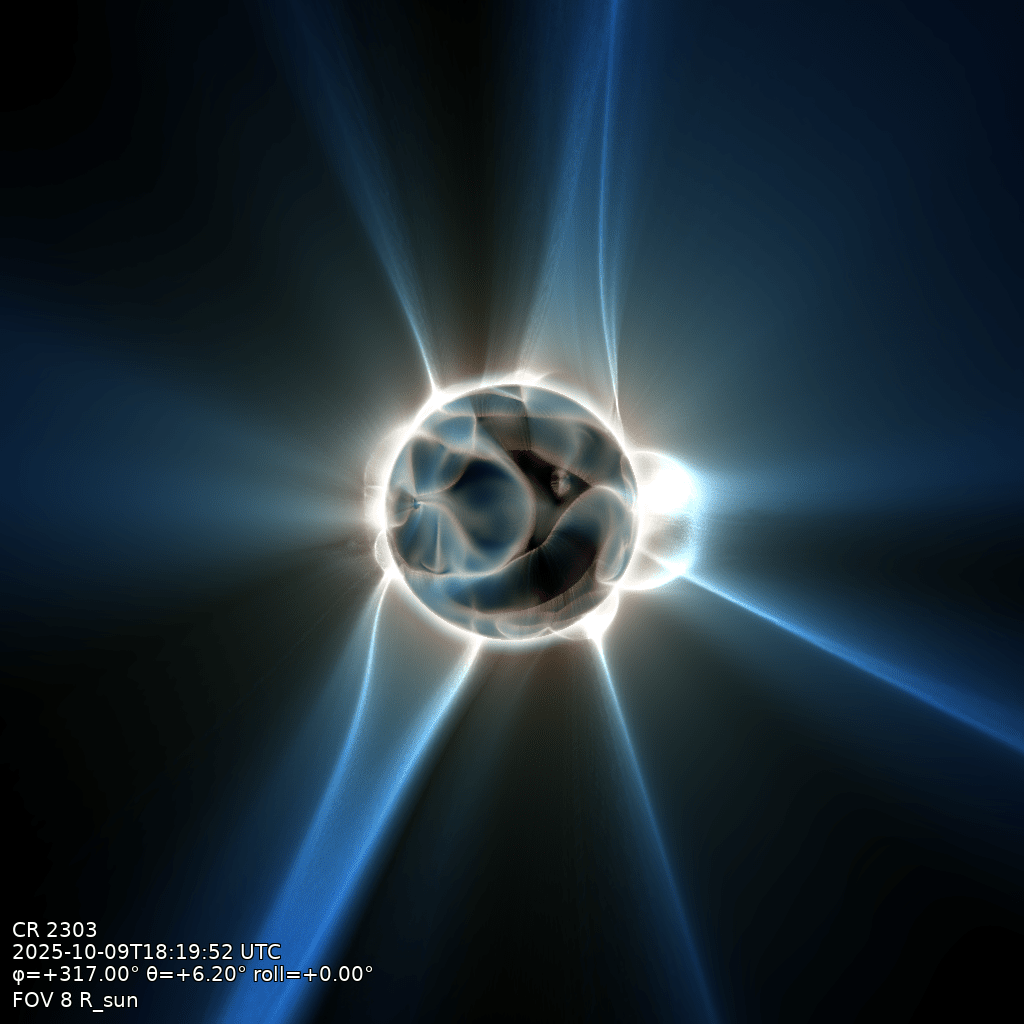
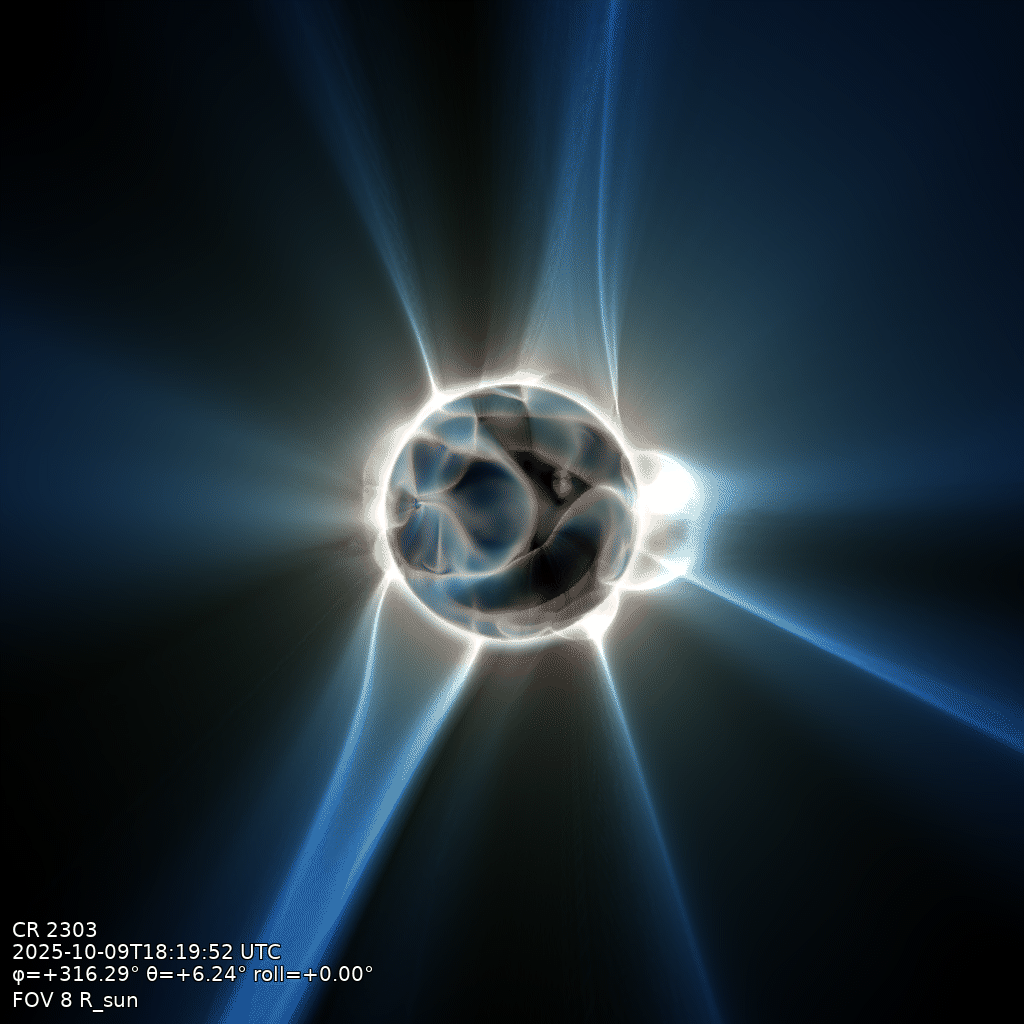
RD: docs update

diff --git a/docs/products/euv.md b/docs/products/euv.md
@@ -65,6 +65,9 @@ volume does not keep the temperature, so `euv` does not accept it.
 | Flag | Use | Default |
 |------|-----|---------|
 | `--channel` | The channel: `aia-94`, `aia-131`, `aia-171`, `aia-193`, `aia-211`, `aia-335`, `euvi-a-171`, `euvi-a-195`, `euvi-a-284` (the same for `euvi-b`) or `eui-fsi-174`. A comma list of channels of one instrument writes one image for each channel. | `aia-193` |
+| `--timestamp` | The time of the solution, in UTC. With it, the camera is at the spacecraft of the channel at that time. See [Solution time and frame](../time-and-frame.md). | none |
+| `--frame` | The frame of the input solution: `carrington` or `stonyhurst`. See [Carrington or Stonyhurst](../time-and-frame.md#carrington-or-stonyhurst). | `carrington`, with a warning |
+| `--observer` | The spacecraft that views the solution: `earth`, `stereo-a`, `stereo-b`, `solo` or `psp`. See [Use a real observer](../camera.md#use-a-real-observer). | set automatically |
 | `--tr-temperature` | The broadening temperature Tc of the run, in K, or `none`. See [Transition region](#transition-region). | from the run log, if there is one |
 | `--abundances` | The element abundances of the response tables: `coronal-2021` or `schmelz-2012`. | `coronal-2021` |
 | `--range LO,HI` | The display range of the log image, in the channel unit. `auto` uses the 0.5 and 99.9 percentiles of the image. | a fixed range for each channel |
@@ -77,11 +80,8 @@ volume does not keep the temperature, so `euv` does not accept it.
 - Camera flags: see [Camera and viewpoint](../camera.md). `euv` uses the perspective camera only.
   The default field of view is the field of the instrument, at 1024 × 1024 pixels.
   `--instrument aia`, `euvi-a`, `euvi-b` or `eui-fsi` gives the native frame of the instrument.
-- If you give `--timestamp` and no `--observer`, `--longitude`, `--latitude` or
-  `--observer-distance`, the observer is the spacecraft of the channel: `earth` for AIA,
-  `stereo-a` or `stereo-b` for EUVI, `solo` for EUI/FSI. See
-  [Use a real observer](../camera.md#use-a-real-observer) and
-  [Solution time and frame](../time-and-frame.md).
+- `euv` sets `--observer` automatically to the spacecraft of the channel: `earth` for AIA,
+  `stereo-a` or `stereo-b` for EUVI, `solo` for EUI/FSI. This needs `--timestamp`.
 - `qorona euv --help-all` lists all the flags, including the flags of the internal grid
   (`--outer-radius`, `--n-r` and others). See [Method](#method).
 

diff --git a/docs/getting-started/first-eclipse-image.md b/docs/getting-started/first-eclipse-image.md
@@ -43,16 +43,16 @@ for each solution. For a quicker first look, add `--quality fast`.
 ## 4. Render
 
 ```bash
-qorona render data/coconut_corona.qor -o data/eclipse.png --fov 8 --longitude 317 --latitude 6.2
+qorona render data/coconut_corona.qor -o data/eclipse.png --fov 8 --observer earth
 ```
 
 ![Synthetic eclipse render of the COCONUT corona](../assets/eclipse.png)
 
-A render takes seconds. Render the same volume from as many viewpoints as you want. For the view
-from Earth at the solution time:
+`--observer earth` puts the camera at Earth at the solution time. A render takes seconds. Render
+the same volume from as many viewpoints as you want, for example from STEREO-A:
 
 ```bash
-qorona render data/coconut_corona.qor -o data/earth.png --fov 8 --observer earth
+qorona render data/coconut_corona.qor -o data/stereo-a.png --fov 8 --observer stereo-a
 ```
 
 [Camera and viewpoint](../camera.md) gives all the camera flags.
@@ -67,7 +67,7 @@ qorona render data/coconut_corona.qor -o data/earth.png --fov 8 --observer earth
 ```bash
 qorona run data/coconut_corona.CFmesh.xz -o data/eclipse.png \
     --timestamp 2025-10-09T18:19:52 --frame carrington --outer-radius 8 \
-    --fov 8 --longitude 317 --latitude 6.2 --save-volume data/coconut_corona.qor
+    --fov 8 --observer earth --save-volume data/coconut_corona.qor
 ```
 
 ## Next

diff --git a/docs/products/squashing-factor.md b/docs/products/squashing-factor.md
@@ -8,7 +8,7 @@ fine structure seen at a total solar eclipse.
 ![Synthetic eclipse render of the COCONUT corona](../assets/eclipse.png)
 
 ```bash
-qorona render data/coconut_corona.qor -o data/eclipse.png --fov 8 --longitude 317 --latitude 6.2
+qorona render data/coconut_corona.qor -o data/eclipse.png --fov 8 --observer earth
 ```
 
 ## Flags
@@ -34,7 +34,7 @@ structure at the surface.
 
 ```bash
 qorona render data/coconut_corona.qor -o data/near-limb.png \
-    --fov 3 --longitude 317 --latitude 6.2 --preset small-fov --step 0.002 --occult opaque
+    --fov 3 --observer earth --preset small-fov --step 0.002 --occult opaque
 ```
 
 !!! warning "Use a fine step for a small field of view"
@@ -59,7 +59,7 @@ comparison uses the near-limb settings:
 
 ```bash
 qorona render data/coconut_corona.qor -o data/occult-<mode>.png \
-    --fov 3 --longitude 317 --latitude 6.2 --preset small-fov --step 0.002 --occult <mode>
+    --fov 3 --observer earth --preset small-fov --step 0.002 --occult <mode>
 ```
 
 The `composite` mode on a whole-corona view:
@@ -68,7 +68,7 @@ The `composite` mode on a whole-corona view:
 
 ```bash
 qorona render data/coconut_corona.qor -o data/composite.png \
-    --fov 8 --longitude 317 --latitude 6.2 --occult composite
+    --fov 8 --observer earth --occult composite
 ```
 
 ## References

diff --git a/README.md b/README.md
@@ -61,7 +61,7 @@ qorona build data/coconut_corona.CFmesh.xz -o data/coconut_corona.qor \
     --timestamp 2025-10-09T18:19:52 --frame carrington --outer-radius 8
 
 # 3. Render any number of viewpoints off that volume (seconds each).
-qorona render data/coconut_corona.qor -o data/eclipse.png --fov 8 --longitude 317 --latitude 6.2
+qorona render data/coconut_corona.qor -o data/eclipse.png --fov 8 --observer earth
 ```
 
 <p align="center">

diff --git a/docs/index.md b/docs/index.md
@@ -29,7 +29,7 @@ coronal MHD solution ──▶ read ──▶ resample ──▶ Q⊥ volume ─
     qorona build data/coconut_corona.CFmesh.xz -o data/coconut_corona.qor \
         --timestamp 2025-10-09T18:19:52 --frame carrington --outer-radius 8
     qorona render data/coconut_corona.qor -o data/eclipse.png \
-        --fov 8 --longitude 317 --latitude 6.2
+        --fov 8 --observer earth
     ```
 
 | | |

diff --git a/docs/products/white-light.md b/docs/products/white-light.md
@@ -7,8 +7,7 @@ build a Q⊥ volume.
 ![Polarized-brightness view of the COCONUT corona](../assets/white-light.png)
 
 ```bash
-qorona wl data/coconut_corona.qor -o data/white-light.png \
-    --longitude 317 --latitude 6.2
+qorona wl data/coconut_corona.qor -o data/white-light.png --observer earth
 ```
 
 The input is a solution file or a `.qor` volume. A volume is faster, because it keeps the resampled

diff --git a/docs/products/fieldlines.md b/docs/products/fieldlines.md
@@ -13,7 +13,7 @@ photograph:
 
 ```bash
 qorona fieldlines data/coconut_corona.CFmesh.xz -o data/fieldlines.png \
-    --timestamp 2025-10-09T18:19:52 --fov 8 --longitude 317 --latitude 6.2 --seeds 1650
+    --timestamp 2025-10-09T18:19:52 --frame carrington --fov 8 --observer earth --seeds 1650
 ```
 
 ## Flags

diff --git a/docs/products/polarity.md b/docs/products/polarity.md
@@ -6,7 +6,7 @@ The squashing-factor render, coloured by magnetic polarity.
 
 ```bash
 qorona render data/coconut_corona.qor -o data/polarity.png \
-    --fov 8 --longitude 317 --latitude 6.2 --polarity-mode hue
+    --fov 8 --observer earth --polarity-mode hue
 ```
 
 | Colour | Field along the line of sight |
